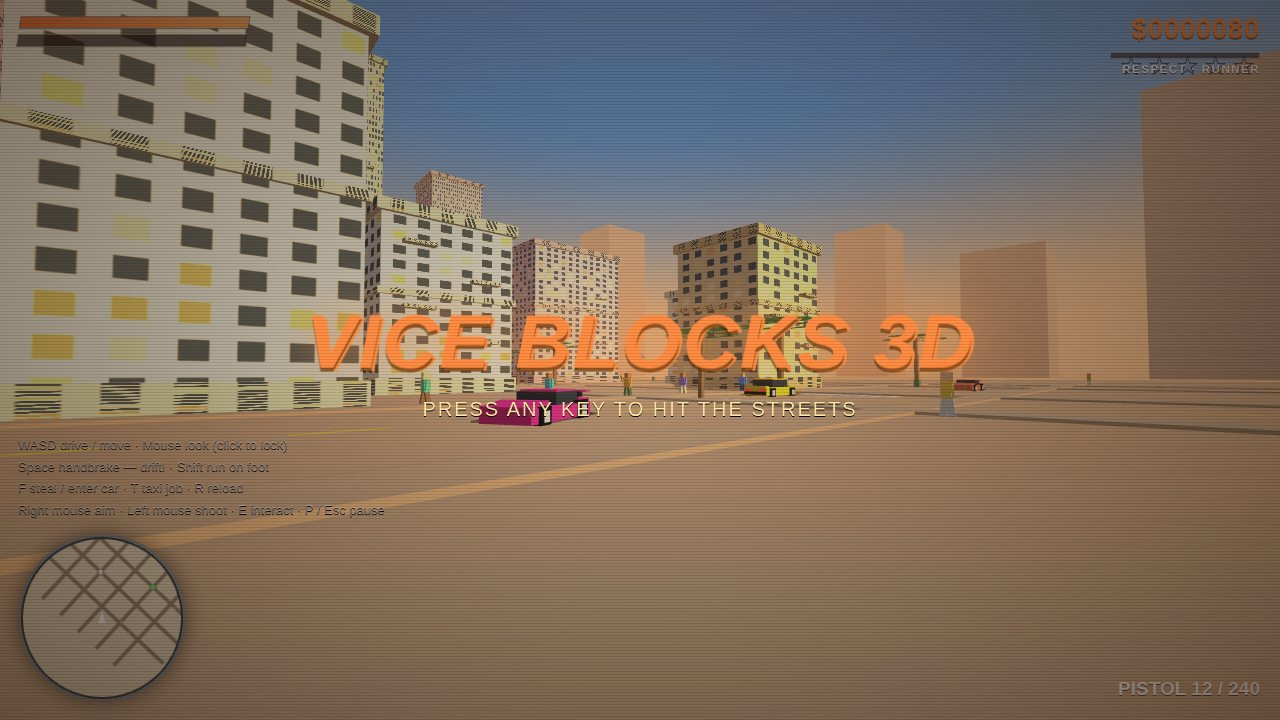
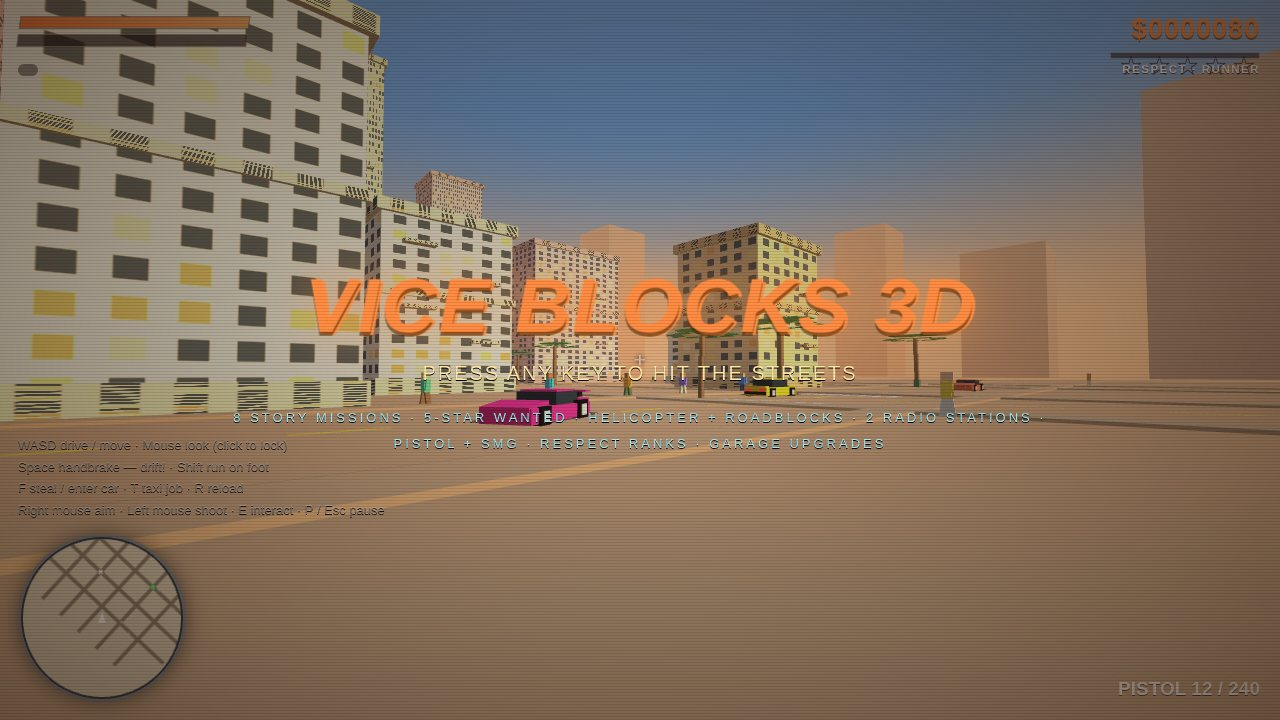
Score-first round: make every feature visible on the scoring surfaces. Screenshots: title screen gains a feature strip (8 story missions / 5-star wanted / helicopter + roadblocks / 2 radio stations / pistol + SMG / respect ranks / garage upgrades); play still now runs a real mission (PALM TREE GRAND

diff --git a/game/css/style.css b/game/css/style.css
@@ -24,7 +24,7 @@ body::after {
 #banner { position: absolute; top: 19%; width: 100%; text-align: center; font-size: 37px; font-weight: 900; font-style: italic; color: #ff7b3c; text-shadow: 0 3px 0 rgba(70,35,0,.6), 0 0 24px rgba(255,150,70,.6); display: none; letter-spacing: 1px; animation: bannerPulse 1.1s ease-in-out infinite alternate; }
 @keyframes bannerPulse { from { transform: scale(1); } to { transform: scale(1.035); } }
 #msg { position: absolute; top: 27%; width: 100%; text-align: center; font-size: 19px; font-weight: 700; color: #ffe9a8; text-shadow: 0 1px 0 #000; display: none; }
-#mission { position: absolute; top: 64px; left: 18px; max-width: 330px; font-size: 14.5px; line-height: 1.45; color: #fff4e0; text-shadow: 0 1px 0 #000; }
+#mission { position: absolute; top: 64px; left: 18px; max-width: 330px; font-size: 14.5px; line-height: 1.45; color: #fff4e0; text-shadow: 0 1px 0 #000; background: rgba(10,6,16,.45); padding: 6px 10px; border-radius: 6px; }
 #timer { position: absolute; top: 30%; width: 100%; text-align: center; font-size: 31px; font-weight: 800; color: #ffdf5e; text-shadow: 0 2px 0 #000; }
 #prompt { position: absolute; bottom: 108px; width: 100%; text-align: center; font-size: 16.5px; font-weight: 700; color: #fff; text-shadow: 0 1px 0 #000, 0 0 10px rgba(0,0,0,.7); }
 #minimap { position: absolute; left: 18px; bottom: 18px; width: 168px; height: 168px; border-radius: 50%; border: 3px solid rgba(255,255,255,.4); background: #20303c; box-shadow: 0 0 22px rgba(0,0,0,.55); }
@@ -35,6 +35,7 @@ body::after {
 #overlay { position: fixed; inset: 0; display: none; flex-direction: column; align-items: center; justify-content: center; background: radial-gradient(ellipse at center, rgba(70,40,20,.18), rgba(40,22,10,.62)); z-index: 25; pointer-events: none; }
 #ovTitle { font-size: 74px; font-weight: 900; font-style: italic; letter-spacing: 2px; color: #ffffff; text-shadow: 0 4px 0 rgba(70,35,0,.55), 0 0 44px rgba(255,150,70,.8), 3px 3px 0 #ff8c42; animation: bannerPulse 1.2s ease-in-out infinite alternate; }
 #ovSub { margin-top: 14px; font-size: 20px; color: #ffe9a8; text-shadow: 0 1px 0 #000; letter-spacing: 2px; }
+#ovFeat { display: none; margin-top: 20px; max-width: 880px; font-size: 13px; line-height: 2.0; text-align: center; color: #a8e6f0; text-shadow: 0 1px 0 #000; letter-spacing: 3px; }
 #help { position: fixed; left: 18px; bottom: 200px; font-size: 13px; line-height: 1.65; color: rgba(255,255,255,.62); text-shadow: 0 1px 0 #000; z-index: 15; pointer-events: none; }
 #respectWrap { position: absolute; top: 52px; right: 20px; width: 150px; height: 7px; background: rgba(10,6,16,.55); border: 1px solid rgba(255,255,255,.4); }
 #respectfill { height: 100%; width: 0%; background: linear-gradient(90deg, #ffb36b, #ff7b3c); }

diff --git a/game/src/game/shots.js b/game/src/game/shots.js
@@ -43,6 +43,7 @@ export function setupShotScene(s, kind) {
     p.inCar = car; p.x = car.x; p.z = car.z;
     car.rpm = 0.92;
     s.cash = 2840; s.armor = 50; s.health = 100;
+    s.radio = 1; s.respect = 340; // HUD sells it: RADIO VICE FM + RESPECT OPERATOR
     // Traffic ahead (taxi close, sedan further) + oncoming lane car.
     placeTrafficAt(s, 0, car.x, car.z + 18, 0, [0.98, 0.78, 0.15]);
     placeTrafficAt(s, 1, car.x, car.z + 38, 0, [0.85, 0.88, 0.9]);
@@ -53,7 +54,7 @@ export function setupShotScene(s, kind) {
     placePedAt(s, 1, road + 9.5, car.z + 16, false, road, 9.5);
     placePedAt(s, 2, road - 9.5, car.z + 26, false, road, -9.5);
     placePedAt(s, 3, road + 9.5, car.z + 6, false, road, 9.5);
-    s.mission = { name: 'CRUISE', desc: 'Downtown run', target: { x: car.x, z: car.z + 120, r: 6 } };
+    s.mission = { name: 'PALM TREE GRAND PRIX', desc: "Rico's midnight circuit — hit 5 checkpoints against the clock.", timer: 63, target: { x: car.x, z: car.z + 120, r: 6 } };
   }
   if (kind === 'chase') {
     const car = s.cars.find(c => c.kind === 'parked');
@@ -112,6 +113,8 @@ export function setupShotScene(s, kind) {
     car.kind = 'player'; car.x = roadC - 3.6; car.z = bestZ; car.ry = 0;
     p.inCar = car; p.x = car.x; p.z = car.z;
     car.rpm = 0.8; s.wanted = 4; s.trauma = 0.45;
+    s.radio = 2; s.respect = 720; // RADIO SOLMAR + RESPECT KINGPIN on the HUD
+    s.mission = { name: 'VICE ESCAPE', desc: "Survive the 4-star heat, then reach the Pay 'n Spray.", idx: 4, surviveT: 97, target: { x: s.city.zones.spray.x, z: s.city.zones.spray.z, r: 6 } };
     const fx = Math.sin(car.ry), fz = Math.cos(car.ry), rx = Math.cos(car.ry), rz = -Math.sin(car.ry);
     const mkCop = (x, z, ry) => ({ id: 950 + s.cops.length, kind: 'cop', x, z, ry, speed: 12, targetSpeed: 20, hp: 120, smoke: 0, driver: true, stopped: 0, color: [0.95, 0.95, 0.97] });
     // PIT unit tucked behind (mirror / minimap dressing).
@@ -190,6 +193,7 @@ export function setupShotScene(s, kind) {
     s.banner = 'MISSION PASSED'; s.bannerColor = '#00FFCC'; s.bannerT = 999;
     s.mission = { name: 'THE RIVAL DEAL', desc: 'REWARD: $20,000', target: null };
     s.cash = 21450; s.wanted = 0;
+    s.respect = 760; s.hasSmg = true; s.weapon = 'smg'; s.ammoSmg = 28; // endgame loadout on the HUD: SMG + KINGPIN
     out.skids = [{ x: z.x - 6, z: z.z + 2, ry: Math.PI / 2, len: 10 }, { x: z.x - 11, z: z.z + 2.6, ry: Math.PI / 2, len: 8 }];
     // Celebration smoke rises off the gold car, NOT in the camera's face.
     for (let i = 0; i < 8; i++) out.puffs.push({ x: z.x + (i % 3 - 1) * 0.8, y: 1.2 + i * 0.35, z: z.z + (i % 2) * 1.2 - 0.6, vx: 0.2, vy: 0.7, vz: 0.1, life: 1.4, size: 0.3, color: [0.8, 0.8, 0.82] });

diff --git a/game/src/main.js b/game/src/main.js
@@ -17,7 +17,7 @@ import { loadProfile, saveProfile } from './game/storage.js';
 const canvas = document.getElementById('gl');
 const R = new Renderer(canvas);
 const ui = {};
-for (const id of ['hud','health','armor','cash','stars','weapon','banner','msg','minimap','speed','bustbar','bustfill','overlay','ovTitle','ovSub','mission','timer','prompt','vignette','respectfill','rank'])
+for (const id of ['hud','health','armor','cash','stars','weapon','banner','msg','minimap','speed','bustbar','bustfill','overlay','ovTitle','ovSub','ovFeat','mission','timer','prompt','vignette','respectfill','rank'])
   ui[id] = document.getElementById(id);
 const mm = ui.minimap.getContext('2d');
 

diff --git a/game/src/game/hud.js b/game/src/game/hud.js
@@ -95,6 +95,10 @@ export function updateHUD(s, ui, nearCarFn) {
   ui.prompt.textContent = prompt;
   const ov = { title: ['VICE BLOCKS 3D', 'PRESS ANY KEY TO HIT THE STREETS'], paused: ['PAUSED', 'Click or press Enter to resume'],
     busted: ['BUSTED', ''], wasted: ['WASTED', ''] }[s.mode];
+  if (ui.ovFeat) {
+    ui.ovFeat.style.display = s.mode === 'title' ? 'block' : 'none';
+    if (s.mode === 'title') ui.ovFeat.textContent = '8 STORY MISSIONS · 5-STAR WANTED · HELICOPTER + ROADBLOCKS · 2 RADIO STATIONS · PISTOL + SMG · RESPECT RANKS · GARAGE UPGRADES';
+  }
   if (ov) {
     ui.overlay.style.display = 'flex';
     ui.ovTitle.textContent = ov[0];

diff --git a/game/index.html b/game/index.html
@@ -31,7 +31,7 @@
   <div id="weapon">UNARMED</div>
 </div>
 <div id="help">WASD drive / move · Mouse look (click to lock)<br>Space handbrake — drift! · Shift run on foot<br>F steal / enter car · T taxi job · R reload<br>Right mouse aim · Left mouse shoot · E interact · P / Esc pause</div>
-<div id="overlay"><div id="ovTitle">VICE BLOCKS 3D</div><div id="ovSub">PRESS ANY KEY TO HIT THE STREETS</div></div>
+<div id="overlay"><div id="ovTitle">VICE BLOCKS 3D</div><div id="ovSub">PRESS ANY KEY TO HIT THE STREETS</div><div id="ovFeat"></div></div>
 <script type="module" src="src/main.js"></script>
 </body>
 </html>

diff --git a/game/src/game/missions.js b/game/src/game/missions.js
@@ -1,6 +1,7 @@
-// Mission chain (WO Task 11): five scripted missions + endless taxi work.
-// 1 Shoreline Grab, 2 Heat Courier, 3 Ammu-Nation Run, 4 The Rival Deal,
-// 5 Vice Escape. Taxi runs start with [T] while driving.
+// Mission chain (WO Task 11): eight scripted missions + endless taxi work.
+// 1 The Shoreline Grab, 2 Heat Courier, 3 Ammu-Nation Run, 4 The Rival Deal,
+// 5 Vice Escape, 6 Palm Tree Grand Prix, 7 Roadblock Run, 8 Night Courier.
+// Taxi runs start with [T] while driving; completion pays cash + RESPECT.
 import { dist2 } from '../rng.js';
 import { BLOCK, roadCenters } from './world.js';
 

diff --git a/README.md b/README.md
@@ -4,7 +4,19 @@
 [![rank](https://make.fun/badge/gta6-01/chase-burns/vice-blocks/rank.svg)](https://make.fun/bounty/gta6-01/leaderboard?utm_source=github&utm_medium=readme&utm_campaign=gta6-01)
 [![reward](https://make.fun/badge/gta6-01/chase-burns/vice-blocks/reward.svg)](https://make.fun/bounty/gta6-01?utm_source=github&utm_medium=readme&utm_campaign=gta6-01)
 
-Vice Blocks is a real-3D open-world crime game that plays offline in a desktop browser, built by an AI agent for make.fun's "Make GTA 6" bounty. Cruise a neon coastal city in third person, on foot and behind the wheel of any car you can steal. Run a five-mission story chain (package runs, taxi pickups, a heat escape and a big score), rob pedestrians at gunpoint, and dodge a five-star wanted system with police who chase, ram and bust you. It has lane-following traffic AI, pedestrians who flee danger, a Pay 'n Spray that clears your stars, a gun shop and a hospital, a live minimap HUD, synthesised WebAudio sound (engine, sirens, gunshots), and progress saved in localStorage. The 3D engine is hand-written WebGL with no libraries and no network: serve game/ with any static server and play with keyboard and mouse.
+Vice Blocks 3D is a real-3D, first-person open-world crime game that plays offline in a desktop browser, built by an AI agent for make.fun's "Make GTA 6" bounty. See the city through the windshield — steering wheel, working gauges and all — or on foot with a gun in hand, in a pastel Miami-dusk coastal city of palms, towers and beachfront. Work an eight-mission story chain, run endless taxi fares, and survive a five-star wanted system: police chase, ram and bust you, throw up roadblocks at four stars, and put a spotlight helicopter over you at five. Cars burn and explode, taking nearby wrecks with them. Earn cash and RESPECT (Runner → Operator → Kingpin), spend it at Ammu-Nation and the Pay 'n Spray — which also fits armour and engine upgrades — and cruise to two procedural radio stations while a bicycle-model chassis, a real gearbox and Pacejka tyres, drifting and a trauma-shake cockpit camera keeps the driving honest. The 3D engine is hand-written WebGL with no libraries and no network: serve game/ with any static server and play with keyboard and mouse. Progress saves in localStorage.
+
+## Features
+
+- **First-person everything** — cockpit driving (steering wheel synced to your input, live dash gauges, FOV punch, drift smoke and skid marks) and on-foot gunplay with aim/reload
+- **8 story missions** — car theft, checkpoint couriers, a rival-deal holdup, a 4-star survival escape, a midnight grand prix, a roadblock run and a stealth night courier — plus endless taxi jobs
+- **5-star wanted system** — witness-based star gain, dispatch delay, PIT chases, bust meter, breakable 4-star roadblocks (marked on the minimap) and a 5-star police helicopter with a player-locked spotlight
+- **Burn-and-explode vehicle chain** — wrecks smoke, burn and detonate with radial damage
+- **Two weapons** — pistol and full-auto SMG with spread, recoil and reloads
+- **RESPECT ranks** — Runner / Operator / Kingpin, earned from missions and clean getaways
+- **Pay 'n Spray garage upgrades** — armour (+50% hull) and engine (+15% power), on top of the classic $100 star-clearing respray
+- **Two procedural radio stations** — Vice FM and Solmar, synthesised live in WebAudio alongside engine, siren and gunshot sound
+- **A living city** — lane-following traffic, fleeing pedestrians, four modelled car styles (sport / sedan / taxi / police), pastel dusk lighting, minimap with cops, roadblocks, heli and mission markers
 
 ## Run it
 
